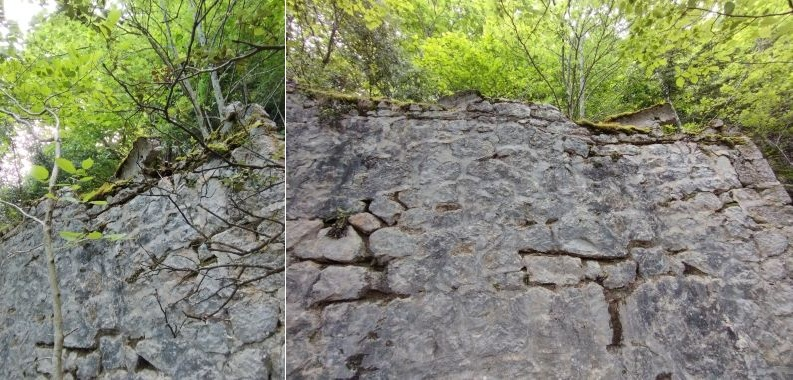
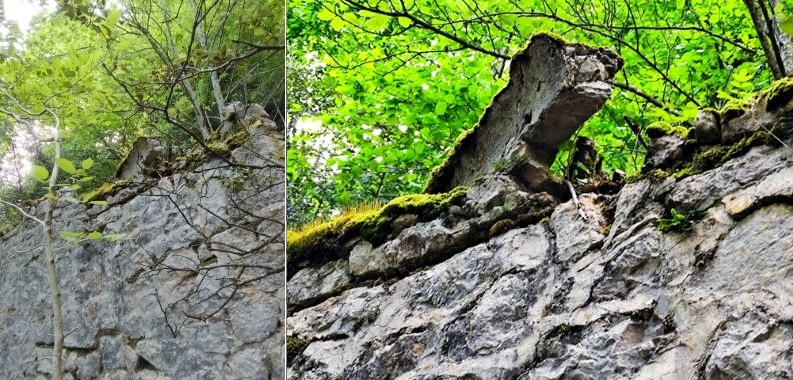
funiculaire musée

diff --git a/stgeorgesfuniculaire/stgeorgesfuniculaire.html b/stgeorgesfuniculaire/stgeorgesfuniculaire.html
@@ -134,26 +134,32 @@
     <h2>Presse</h2>
     <p>Voir les articles de <a href="../ayguette/ayguette_cpa.html?#funiculaire">Le courrier de l'Aude du 25 mai 1905</a> et du 11 juin 1905</p>
     
-    <h2 id="funiculaire20260513">Randonnée du 13 mai 2026</h2>
+    <h2 id="funiculaire20260513">Randonnée du 13 mai 2026, faite avec Amédine</h2>
     <h3 id="funipont">Etude du pont à culée triangulaire</h3>
+    (Etude enrichie par Amédine)
     <img src="images/plan%20position%20pont%20cul%C3%A9e%20triangulaire.jpg" alt="plan position du pont à culée triangulaire" width="793" height="162">
     <p>Ce pont a la particularité de laisser un passage à l'ancienne tire d'où la forme particulière de la culée haute.<br>
     La largeur particulière de ce pont permettait d'avoir 2 voies métriques parallèles, c'est vraisemblablement sur ce pont que se croisaient les trains montants et descendants (pourtant, d'après le plan, ne semble pas vraiment au milieu du tracè, mais le dénivelé plus fort sur la partie basse du trajet peu rééquilibrer les distances ?) </p>
-    <p class="Legende-image">Culée basse (droite) du pont, remarquer la taille et la forme des 4 trous correspondant aux 4 troncs qui formaient le tablier du pont</p>
-    <img src="images/IMG_20260513_095036.jpg" alt="Culée basse" width="795" height="596">
+    <p class="Legende-image">Culée basse (droite) du pont, remarquer la taille et la forme des 4 trous correspondant aux 4 troncs qui formaient le tablier du pont (troncs encastrés directement dans le ciment</p>
+    <img src="images/IMG_20260513_095036.jpg" alt="Culée basse / culée haute" width="795" height="596">
     <p class="Legende-image">Culée haute (triangle) du pont, depuis la culée basse pour essayer d'apprécier la distance entre les 2 culées (environ 8 mètres)</p>    
-    <img src="images/IMG_20260513_095220.jpg" alt="Culée haute" width="452" height="600">
-    <p class="Legende-image">En bas de la Culée basse 2 trous ronds sont la trace de 2 troncs de soutien du tablier</p>    
+    <img src="images/IMG_20260513_095220_2.jpg" alt="Culée haute / culée Basse" width="452" height="600">
+    <p class="Legende-image">Vue inverse de la Culée basse du pont, depuis la culée haute</p>
+     <img src="images/IMG_20251115_110115-001.jpg" alt="Culée haute" width="640" height="480">
+    <p class="Legende-image">En bas de la Culée basse, 2 trous ronds sont la trace de 2 troncs de soutien du tablier, placés en biais pour étayer le pont</p>    
     <img src="images/IMG_20260513_095354.jpg" alt="trous ronds sur la culée basse" width="793" height="380">
+    <img src="images/IMG_20251115_105919.jpg" alt="trou rond sur la culée basse 2" width="450" height="600">
     <p class="Legende-image">Culée haute (triangle) du pont avec la trace d'un pilier de pierre qui devait supporter la partie de voie du train descendant, plus chargé que celui montant</p>    
     <img src="images/IMG_20260513_095425.jpg" alt="Culée haute 2" width="795" height="527">
-    <p class="Legende-image">haut de la Culée haute (triangle) du pont avec les 4 trous correspondants au 4 trous déjà vu sur la partie basse : les 4 troncs de support du tablier</p>    
+    <p class="Legende-image">haut de la Culée haute (triangle) du pont avec les 4 trous correspondant aux 4 trous déjà vus sur la partie basse : les 4 troncs de support du tablier</p>    
     <img src="images/IMG_20260513_095616.jpg" alt="Culée haute 3" width="795" height="527">
+    <img src="images/IMG_20260513_095649.jpg" alt="Culée haute 3bis" width="451" height="600">
+    <br>
     <p class="Legende-image">La trace du pilier de pierre qui devait supporter la partie de voie du train descendant</p>
     <img src="images/IMG_20260513_095759.jpg" alt="pilier de pierre" width="795" height="527">
-    <p class="Legende-image">Vis de fixation d'une traverse située sur la culée haute, les 2 accroches étant situées à peu près à 2 mètres l'une de l'autre (la prochaine fois que j'irai, il faudra que j'amène un mètre)</p>
+    <p class="Legende-image">Vis de fixation d'une traverse située sur la culée haute, les 2 accroches étant situées à peu près à 2 mètres l'une de l'autre (la prochaine fois que j'irai, il faudra que j'amène un mètre...)</p>
     <img src="images/IMG_20260513_100418.jpg" alt="vis de fixation sur la Culée haute" width="795" height="527">
-    <p class="Legende-image">Sur la culée haute, on peut remarquer que les 3 rangées de pierre supérieures ont été posées ultérieurement, de façon à maçonner après la pose des 4 troncs qui ont été encastrés</p>
+    <p class="Legende-image">Sur la culée haute, on peut remarquer que les 3 rangées supérieures de pierres ont été posées ultérieurement, de façon à maçonner après la pose des 4 troncs qui ont été encastrés</p>
     <img src="images/IMG_20260513_100858.jpg" alt="Culée haute 4" width="795" height="596">
     <p class="Legende-image">Vue de la culée haute, remarquer que l'encastrement des troncs dépasse de la culée</p>
     <img src="images/IMG_20260513_101234.jpg" alt="Culée haute 5" width="793" height="380">

diff --git a/index.html b/index.html
@@ -380,6 +380,10 @@ Pour les plus sportifs, le parcourt des "Bucherons" est là pour les satisfaire.
       <hr>
       
    <h2 id="idxnouveau">Nouveautés du site ce mois</h2>
+   <p>24/05/2026</p>
+   <ul>
+      <li><a href="#lison20260524">Aude, Axat, les portes ouvertes d' un insolite musée</a>,  par Amédine le 24 mai 2026 par Amédine</li>
+   </ul>
    <p>20/05/2026 - 22/05/2026</p>
    <ul>
        <li><a href="stgeorgesfuniculaire/stgeorgesfuniculaire.html?#funiculaire20260513">Randonnée du 13 mai au funiculaire de Saint Georges</a> (étude du pont à culée triangulaire et musée à ciel ouvert) - initialisation (étude du pont ok)</li>
@@ -408,7 +412,7 @@ Pour les plus sportifs, le parcourt des "Bucherons" est là pour les satisfaire.
    </ul>
    <p>11/05/2026</p>
    <ul>
-      <li><a href="#lison20260410">Aude, Axat, fantaisies cartographiques en chemin</a> par Amédine le 11 mai 2026</li>
+      <li><a href="#lison20260511">Aude, Axat, fantaisies cartographiques en chemin</a> par Amédine le 11 mai 2026</li>
    </ul>
    <p>10/05/2026</p>
    <ul>